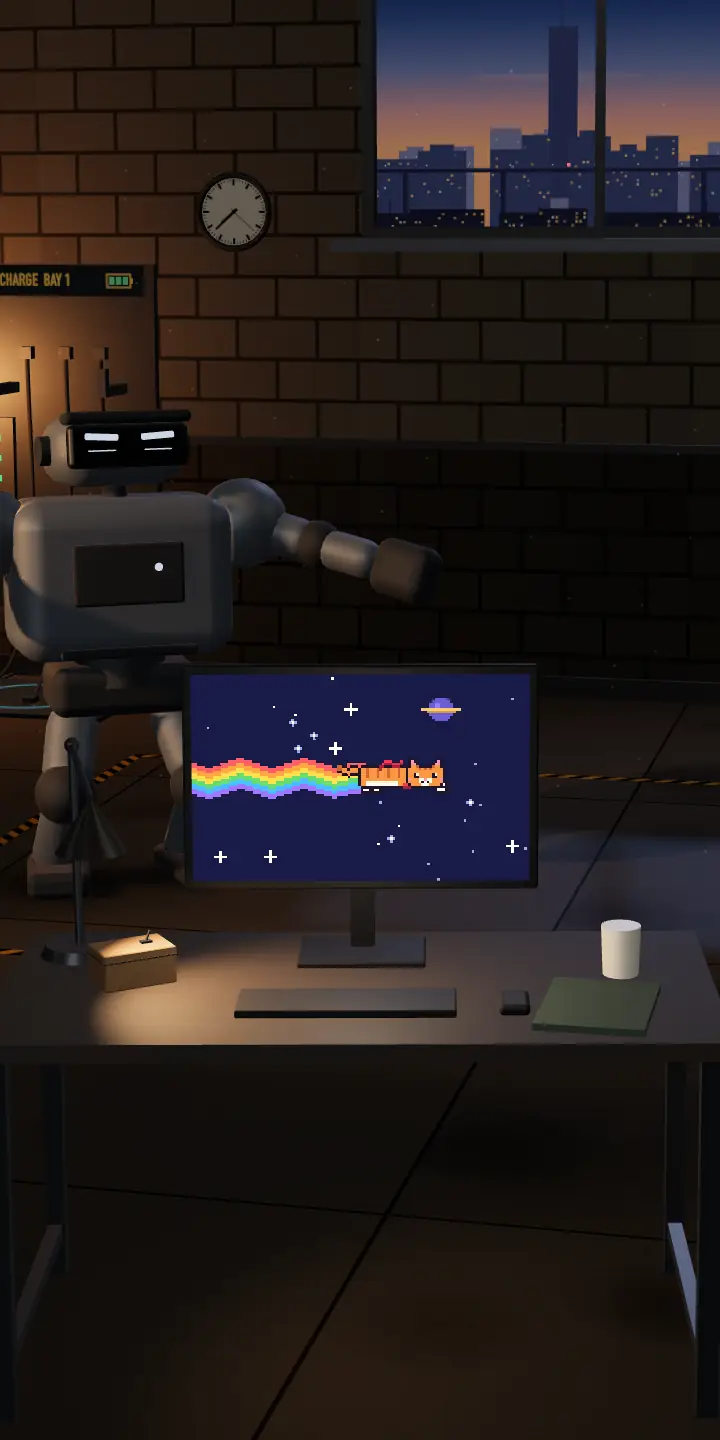
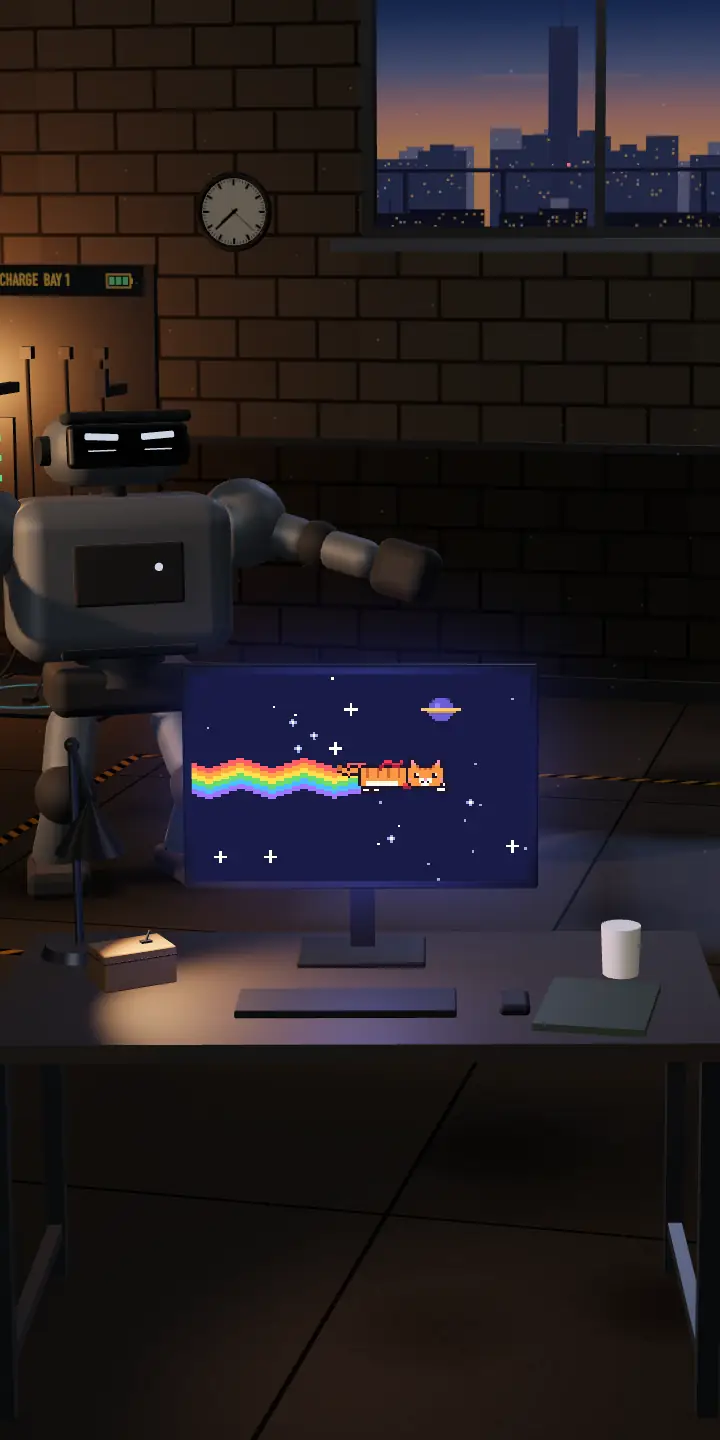
Let the monitor glow with the screensaver's blue
The screen's light on the desk was the page's warm white, so beside
the lamp the screensaver didn't seem to light anything. In the room
it now glows the screensaver's night blue, a little brighter, and a
soft ring of it falls on the bezel and the air round the screen (an
added plane, clear over the screen, outside what the pointer picks).
As the screensaver gives way to the terminal, the light turns warm
white again and the ring goes; the hover and idle brightening lift
both.

Regenerate the opening stills and the social preview (the preview
now shows the grain as well). The monitor's bezel fractions didn't
move.

Changed region(s): [[0.2139, 0.4375, 0.7944, 0.6562], [0.3667, 0.6875, 0.6417, 0.75]]

diff --git a/src/scripts/lab/scene.ts b/src/scripts/lab/scene.ts
@@ -2592,6 +2592,12 @@ const SCREEN_Z = -0.1475;
 // brightening under the pointer are what mark it out.
 const SCREEN_LIT = 1.08;
 const GLOW = 0.5;
+// In the room the screen shows the screensaver, and glows its night blue: on the keys and the desk, and
+// in a soft ring round the screen, on the bezel and the air past it (HALO metres out). As the screensaver
+// gives way to the terminal, the light turns the page's warm white and the ring goes.
+const SAVER_GLOW = { light: 0x8a95ff, lit: 1.7, halo: 0x1c2270 };
+const PAGE_GLOW = 0xf2e7d6;
+const HALO = 0.24;
 /** Where the chair stands, in the desk's frame (metres; x to the desk's right), and its turn. */
 const CHAIR = { x: -1.0, z: 0.25, yaw: 1.9 };
 
@@ -2661,17 +2667,41 @@ function buildWorkstation(mats: Mats, screenMap: THREE.Texture) {
   lift.position.set(0, SCREEN.y, SCREEN_Z + 0.0015);
   lift.visible = false;
   monitor.add(lift);
+  // The ring of glow: a blur round the screen's edge, clear over the screen itself, added over whatever
+  // is behind. In the desk's group, not the monitor's, so the pointer doesn't pick it.
+  const halo = new THREE.Mesh(
+    new THREE.PlaneGeometry(SCREEN.w + HALO * 2, SCREEN.h + HALO * 2),
+    new THREE.MeshBasicMaterial({ map: haloTexture(), color: SAVER_GLOW.halo, transparent: true, blending: THREE.AdditiveBlending, depthWrite: false, toneMapped: false }),
+  );
+  halo.position.set(0, SCREEN.y, SCREEN_Z + 0.001);
+  group.add(halo);
 
   const lamp = new THREE.SpotLight(0xffc68c, 3.2, 2.6, 0.95, 0.7, 2);
   lamp.position.set(head.x, head.y - 0.09, head.z);
   lamp.target.position.set(-0.1, 0.74, 0.12);
   group.add(lamp, lamp.target);
   // The screen's light on the keys and the desk's front edge: warm neutral, like the page on it.
-  const glow = new THREE.PointLight(0xf2e7d6, GLOW, 1.6, 2);
+  const glow = new THREE.PointLight(SAVER_GLOW.light, GLOW * SAVER_GLOW.lit, 1.6, 2);
   glow.position.set(0, SCREEN.y - 0.06, SCREEN_Z + 0.28);
   group.add(glow);
 
-  return { group, monitor, screen, screenMat, glow, lift };
+  return { group, monitor, screen, screenMat, glow, lift, halo };
+}
+
+// The screen's glow: white fading out from the screen's edge over HALO (1 px = 2.5 mm), clear inside it.
+function haloTexture() {
+  const px = 400;
+  const w = Math.round((SCREEN.w + HALO * 2) * px);
+  const h = Math.round((SCREEN.h + HALO * 2) * px);
+  const [sw, sh] = [SCREEN.w * px, SCREEN.h * px];
+  return canvasTexture(w, h, (g) => {
+    g.shadowColor = '#fff';
+    g.shadowBlur = HALO * px * 0.9;
+    g.fillStyle = '#fff';
+    g.fillRect((w - sw) / 2, (h - sh) / 2, sw, sh);
+    g.shadowBlur = 0;
+    g.clearRect((w - sw) / 2, (h - sh) / 2, sw, sh);
+  });
 }
 
 export type Quad = [x: number, y: number][];
@@ -3148,6 +3178,18 @@ export function mountLab(
   // while reading (the terminal covers it).
   let saverStep = 0;
   let saverGone = 0;
+  // The screen's light and its ring, for the screensaver as far as it's drawn, and brighter by `glowK`
+  // (light(): the pointer over the monitor, the idle hint).
+  let glowK = 0;
+  const saverLight = new THREE.Color(SAVER_GLOW.light);
+  const pageLight = new THREE.Color(PAGE_GLOW);
+  function glowNow() {
+    const k = 1 + 1.2 * glowK;
+    desk.glow.intensity = GLOW * lerp(SAVER_GLOW.lit, 1, saverGone) * k;
+    desk.glow.color.lerpColors(saverLight, pageLight, saverGone);
+    desk.halo.material.color.setHex(SAVER_GLOW.halo).multiplyScalar((1 - saverGone) * (1 + 0.6 * glowK));
+    desk.halo.visible = saverGone < 1;
+  }
   function drawSaver(p: number) {
     // `mode` is where the flight is going: in, the screensaver gives way from a fifth of the way to a
     // little past halfway (under 0.7 s, before the terminal is up); out, it comes back once the terminal
@@ -3157,7 +3199,10 @@ export function mountLab(
     const step = intent ? Math.floor(t * SAVER_FPS) : 0;
     if (step === saverStep && gone === saverGone) return;
     saverStep = step;
-    saverGone = gone;
+    if (gone !== saverGone) {
+      saverGone = gone;
+      glowNow();
+    }
     saver.draw(step, gone);
     screenMap.needsUpdate = true;
   }
@@ -3332,7 +3377,8 @@ export function mountLab(
     desk.screenMat.color.setScalar(SCREEN_LIT * (1 + 0.14 * k));
     desk.lift.material.opacity = 0.05 * k;
     desk.lift.visible = k > 0.002;
-    desk.glow.intensity = GLOW * (1 + 1.2 * k);
+    glowK = k;
+    glowNow();
   }
   light();
 
